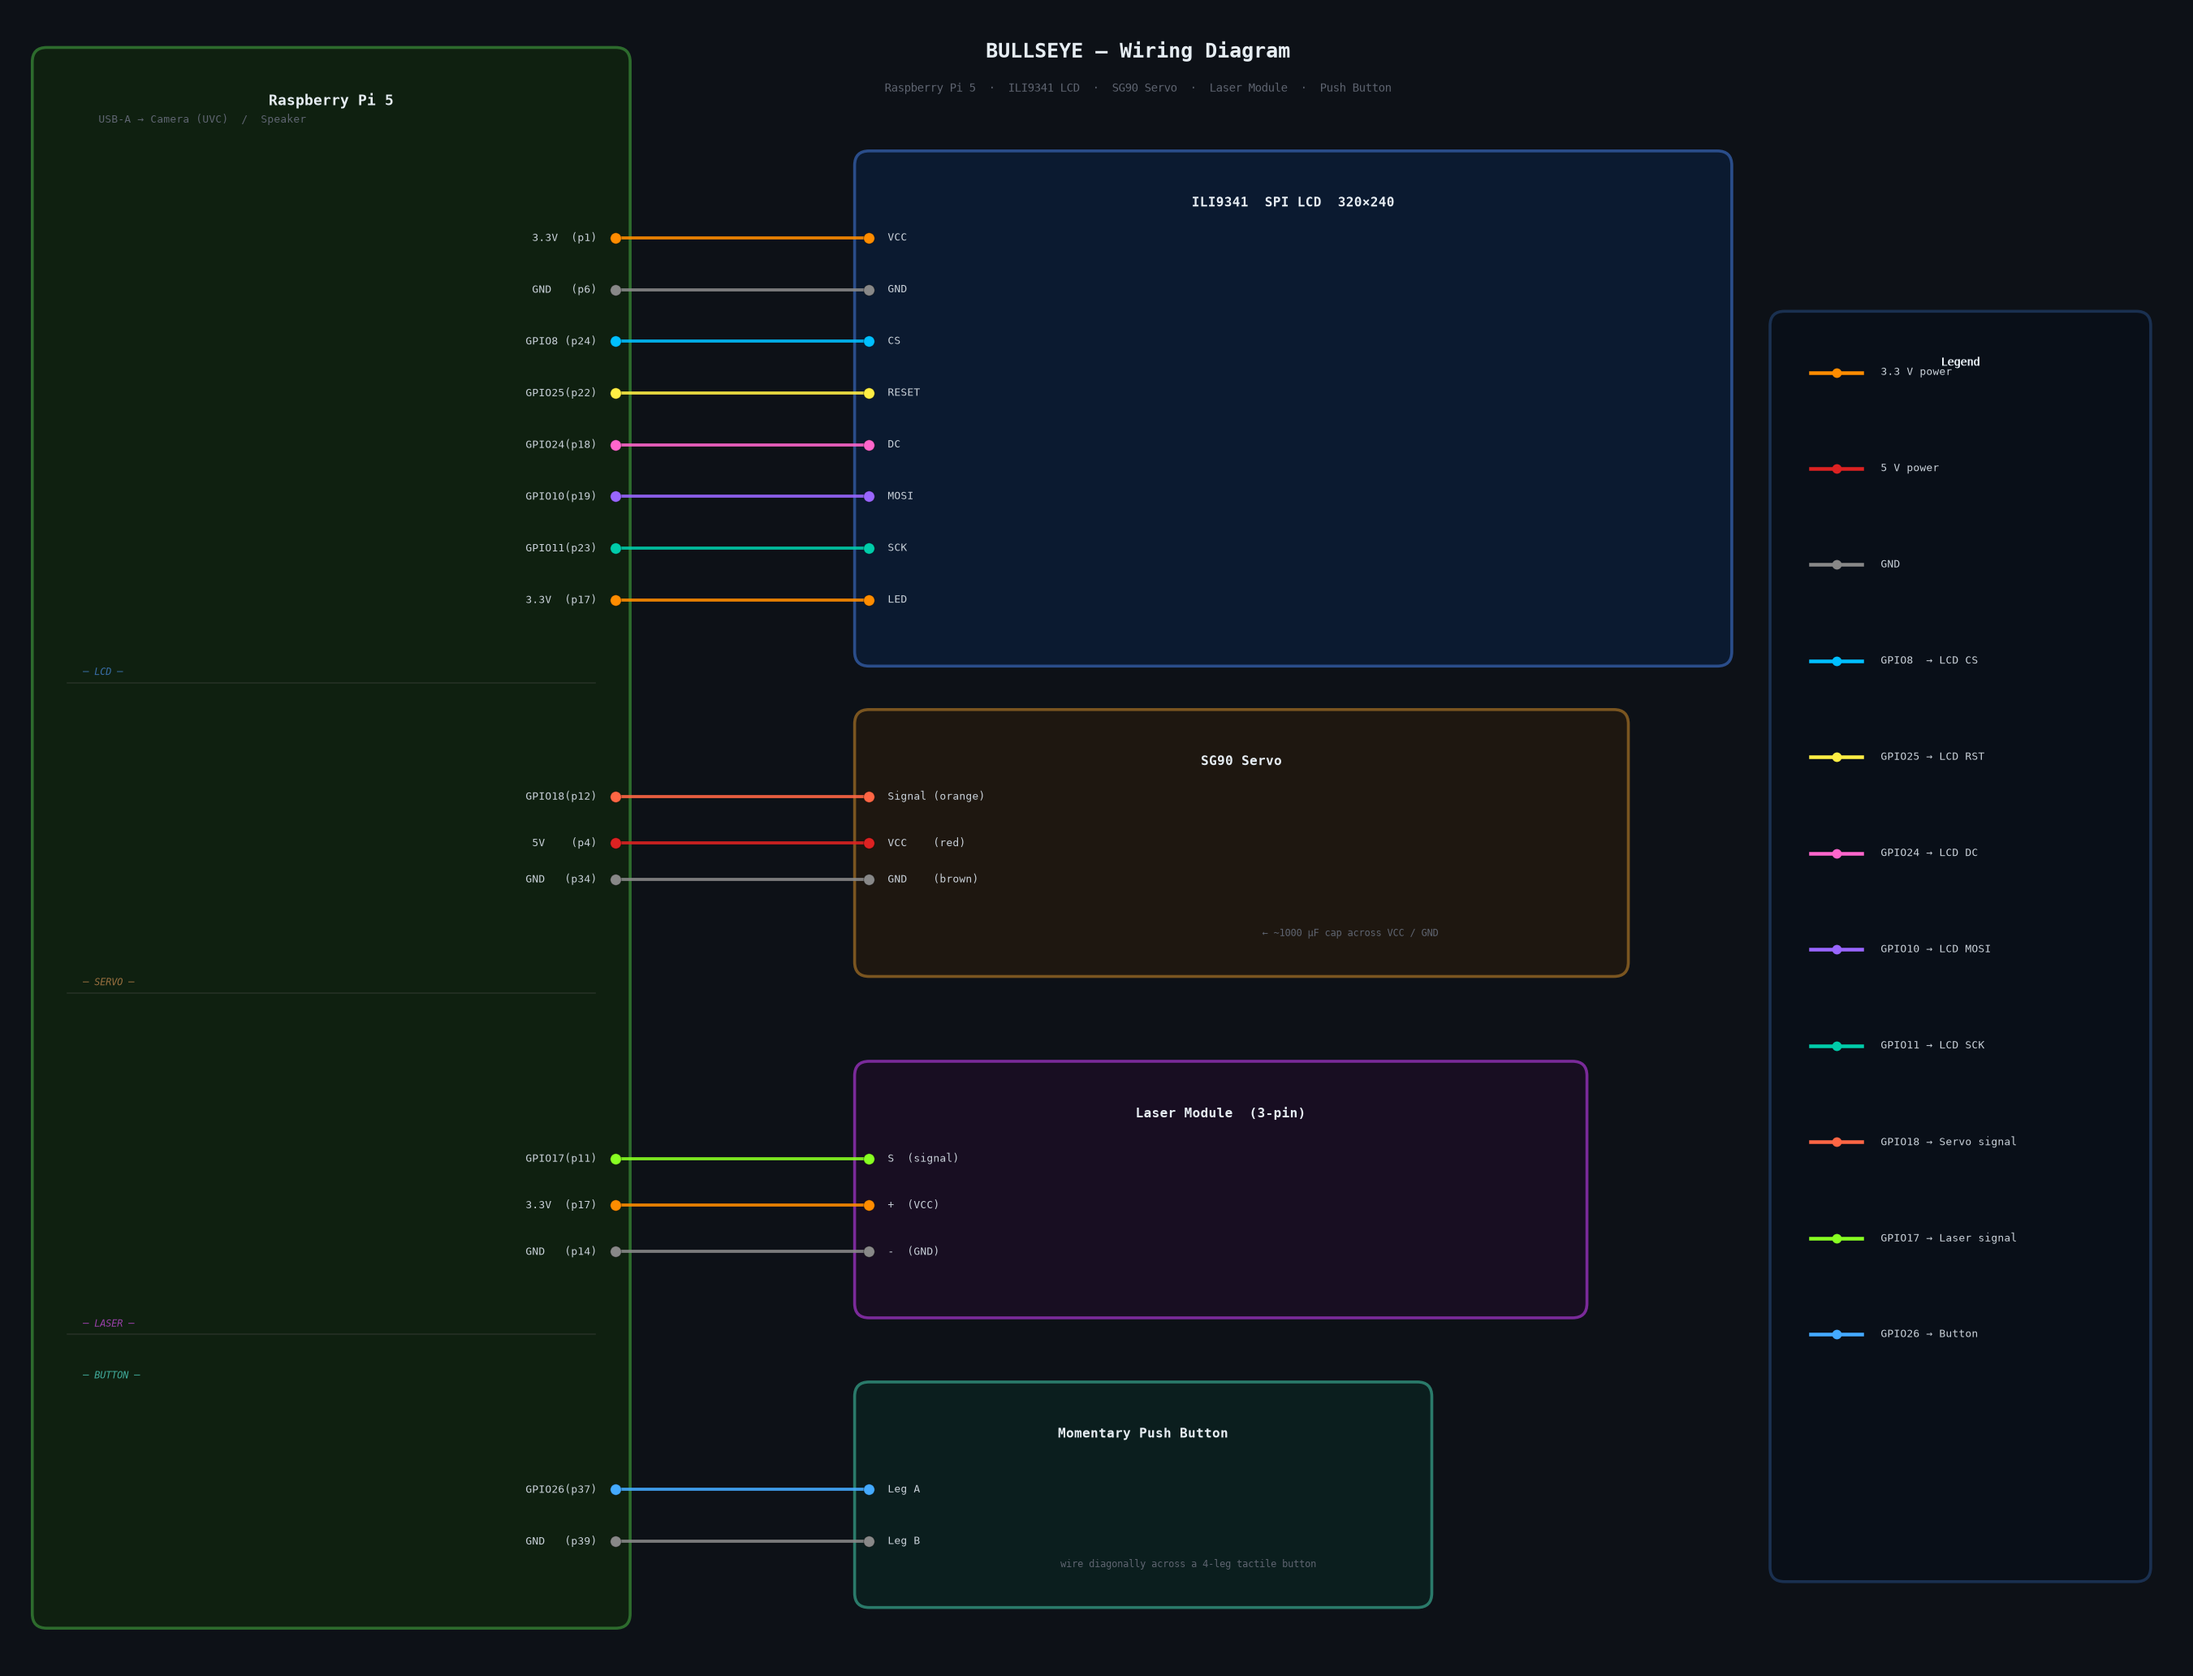
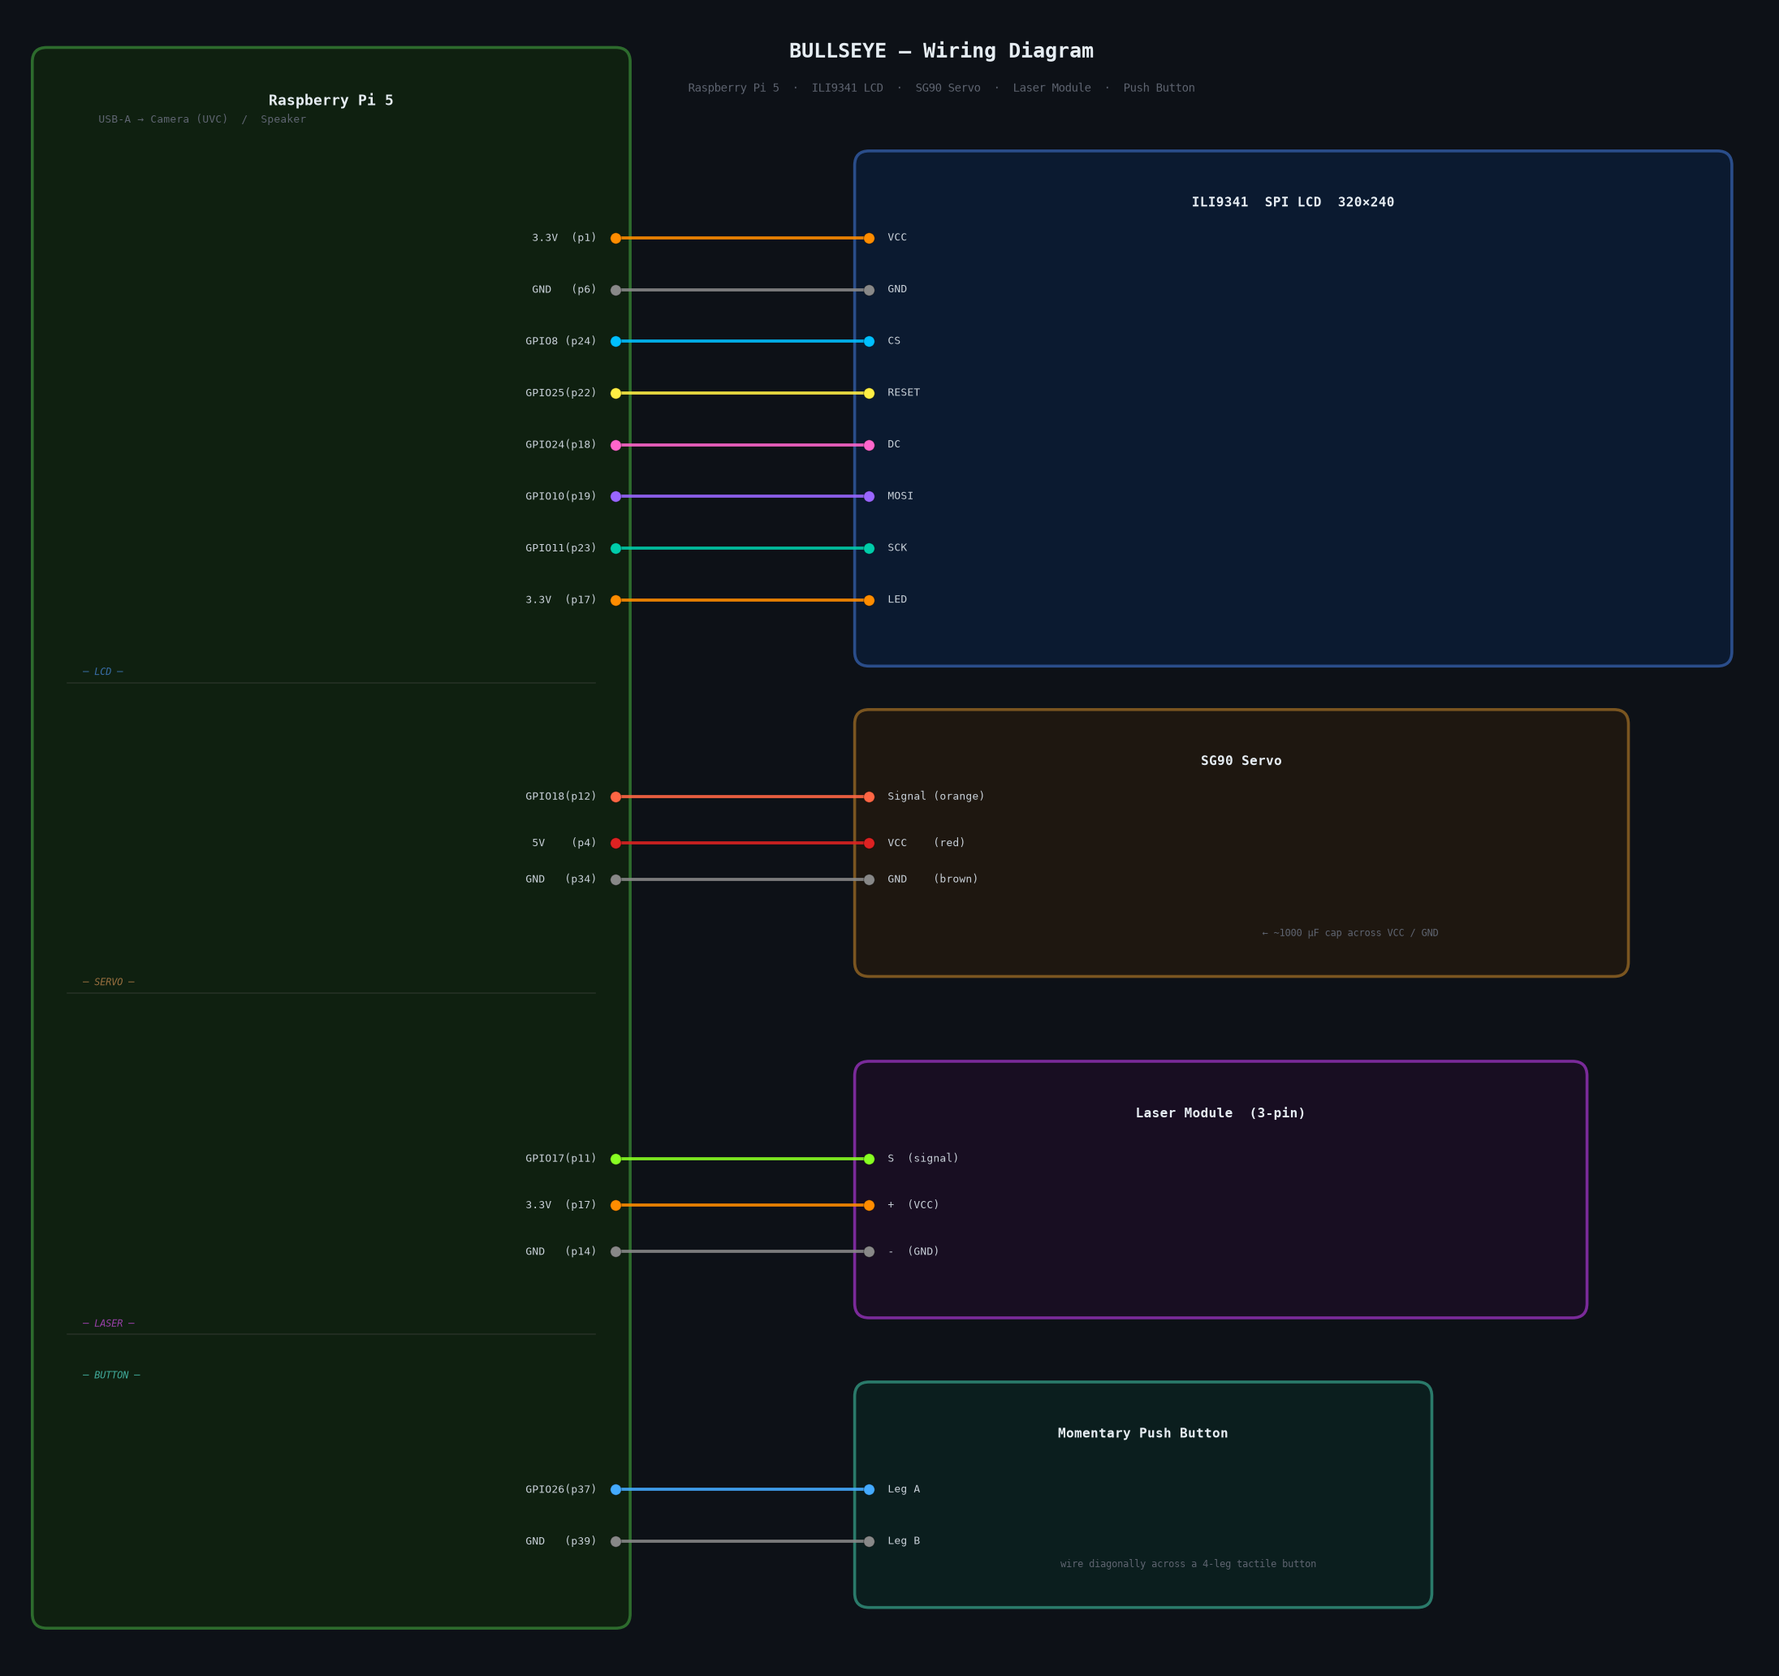
Remove wiring.md, drop legend from wiring diagram
Single source of truth: wiring.png only. Removed the redundant ASCII
markdown file and stripped the legend box from the diagram — connection
labels on the wires themselves are sufficient.

diff --git a/README.md b/README.md
@@ -48,7 +48,7 @@ electronics, computer vision, and audio into one build I could actually demo.
 
 ![Wiring Diagram](wiring.png)
 
-See [wiring.md](wiring.md) for the full ASCII block diagram and common-ground notes.
+See the diagram above for all connections. Common-ground note: if you ever power the servo from an external 5 V supply, bridge its GND to any Pi GND pin or signals will float.
 
 ### LCD (ILI9341, SPI) - 8 wires, no touch panel used
 
